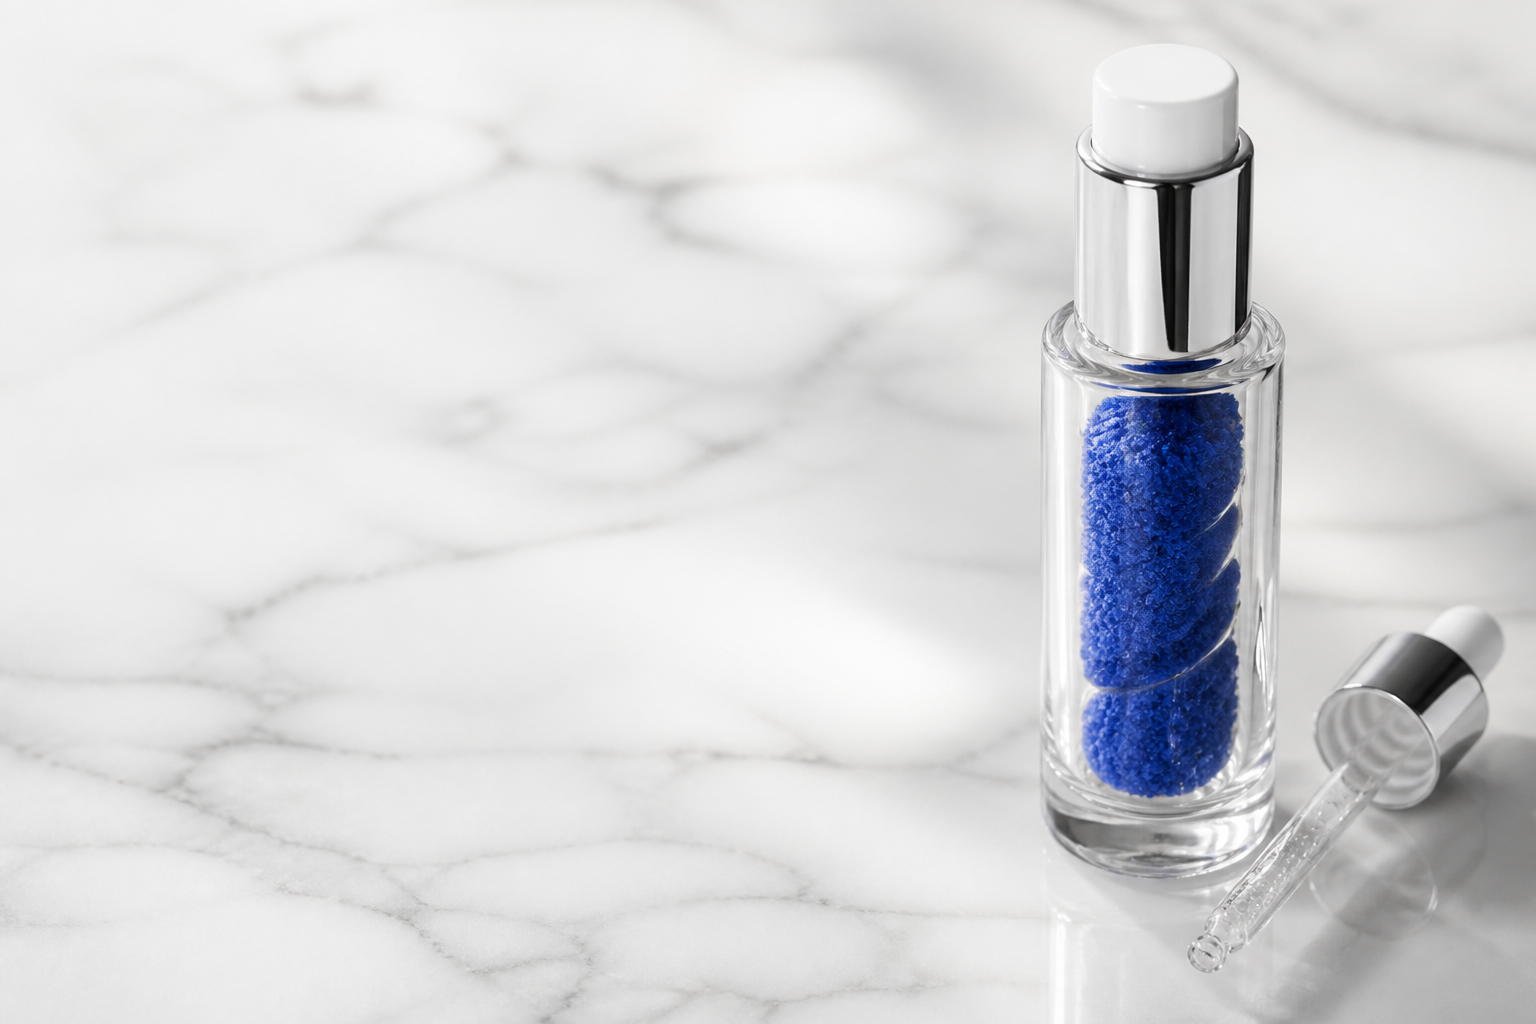
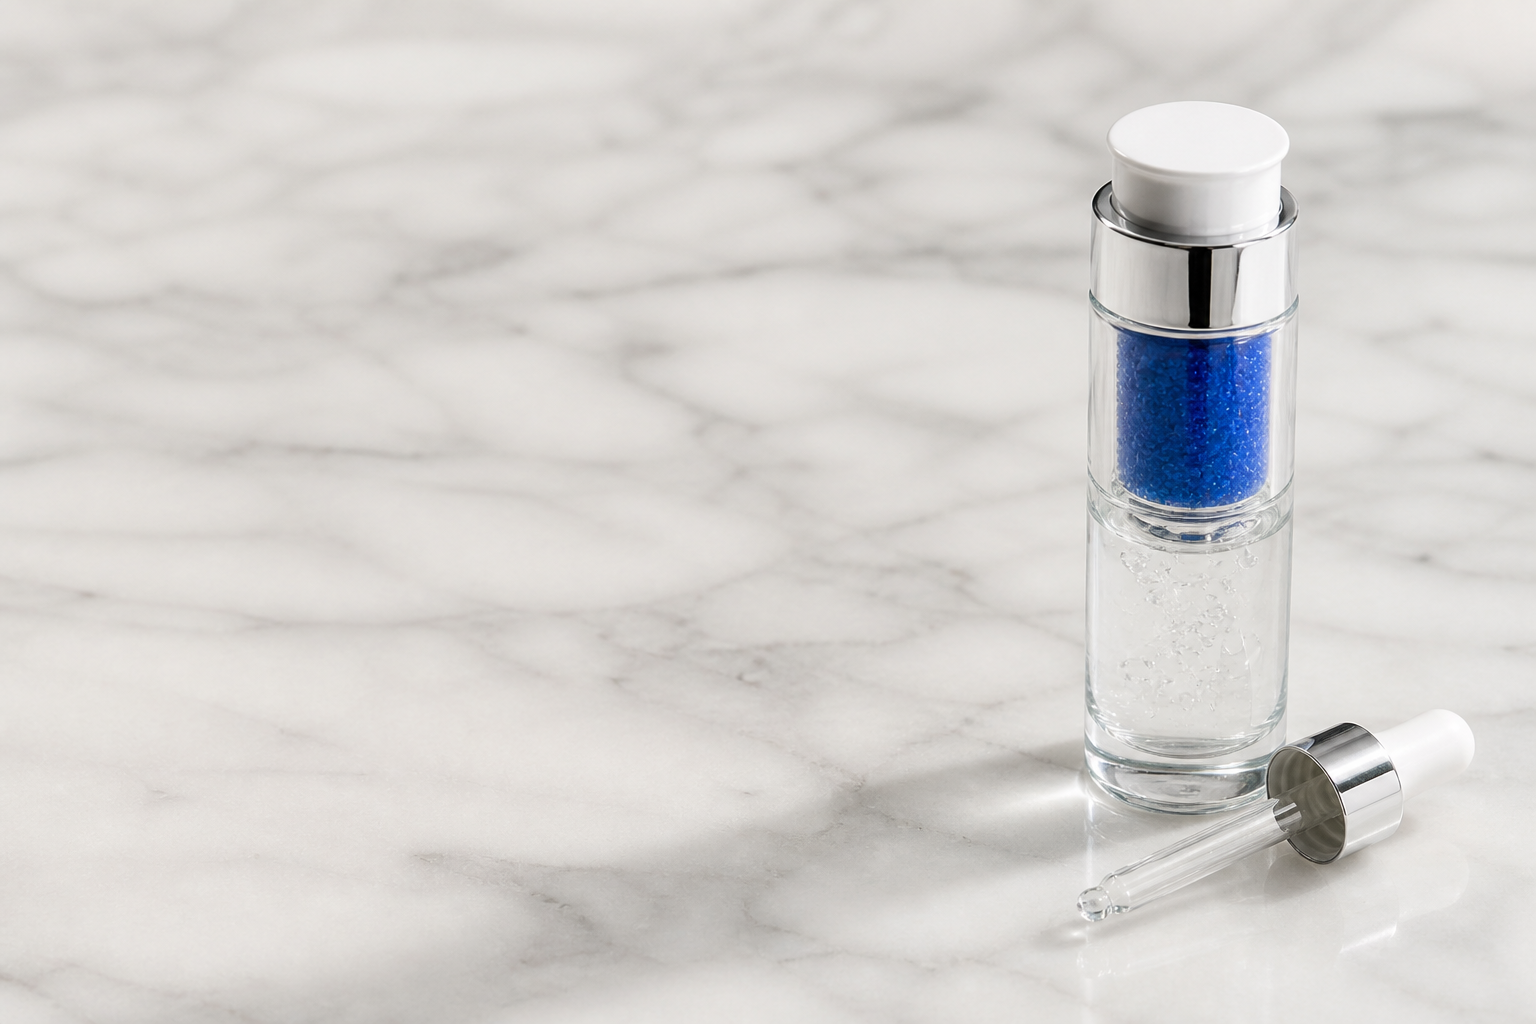
Set three vehicle photos: cobalt serum, open cream, eye
Use deeper cobalt buffet serum as the main shot, open tinted cream as
second, and a dedicated eye serum as third across gallery and lineup.

diff --git a/src/data/skincare.js b/src/data/skincare.js
@@ -69,7 +69,7 @@ export const PEPTIDES = [
     job: "Staple copper for a firmer, brighter look",
     amount: "1 g dry powder",
     price: 48,
-    image: "/skincare/ghk-twist-cap.png",
+    image: "/skincare/buffet-serum.png",
     packaging: "twist-cap",
     blurb:
       "The staple. Flagship copper peptide ships dry in a twist-cap so it doesn’t fade on the shelf.",
@@ -126,7 +126,7 @@ export const SERUM_BASES = [
     form: "serum",
     volume: "30 mL",
     price: 28,
-    image: "/skincare/mix-ampoules.png",
+    image: "/skincare/buffet-serum.png",
     blurb:
       "Ordinary Buffet type multi-peptide / HA / amino-acid serum. Best all-rounder face vehicle.",
     bestFor: "Face serum, daily, 1 to 4 peptides",
@@ -138,7 +138,7 @@ export const SERUM_BASES = [
     form: "cream",
     volume: "50 mL",
     price: 32,
-    image: "/skincare/cream-1.jpg",
+    image: "/skincare/peptide-cream.png",
     blurb:
       "Silken moisture cream vehicle. Mix dry peptides into a leave-on cream instead of a dropper serum.",
     bestFor: "Face cream, richer feel, day or night",
@@ -150,7 +150,7 @@ export const SERUM_BASES = [
     form: "serum",
     volume: "15 mL",
     price: 24,
-    image: "/skincare/serum-1.jpg",
+    image: "/skincare/eye-serum.png",
     blurb:
       "Cooling periocular serum. Pair with SNAP-8 or Syn-Ake for crow’s feet, or add Eyeseryl as a custom.",
     bestFor: "Under-eye, crow’s feet, expression",
@@ -317,11 +317,13 @@ export function buildSerumProduct({
     form: base.form || "serum",
     price,
     size: `${base.volume}, ${uniquePep.length} peptide${uniquePep.length > 1 ? "s" : ""}`,
-    image: hasGhk && !isCream ? "/skincare/ghk-twist-cap.png" : base.image,
+    image: hasGhk && !isCream ? "/skincare/buffet-serum.png" : base.image,
     gallery:
       hasGhk && !isCream
-        ? ["/skincare/ghk-twist-cap.png", "/skincare/ghk-twist-howto.png"]
-        : [base.image],
+        ? ["/skincare/buffet-serum.png", "/skincare/peptide-cream.png", "/skincare/eye-serum.png"]
+        : isCream
+          ? ["/skincare/peptide-cream.png", "/skincare/buffet-serum.png", "/skincare/eye-serum.png"]
+          : [base.image, "/skincare/buffet-serum.png", "/skincare/peptide-cream.png"],
     blurb: `Your mix: ${names.join(" + ")} in ${base.name}. Dry peptides stay sealed until you activate into the ${vehicleWord}.`,
     focus: uniquePep.map((p) => p.need).join(", "),
     texture,

diff --git a/src/index.css b/src/index.css
@@ -2509,7 +2509,7 @@ body:has(.app-shell--skincare) {
   display: grid;
   grid-template-columns: 1.2fr 1fr;
   gap: 1.25rem;
-  margin: 0 0 1.75rem;
+  margin: 0 0 1.25rem;
   padding: 1rem 0;
   border-top: 1px solid var(--line);
   border-bottom: 1px solid var(--line);
@@ -2541,6 +2541,57 @@ body:has(.app-shell--skincare) {
 .sk-lineup li span {
   color: var(--muted);
   text-align: right;
+}
+
+.sk-vehicle-gallery {
+  display: grid;
+  grid-template-columns: 1.35fr 1fr 1fr;
+  gap: 0.75rem;
+  margin: 0 0 1.75rem;
+}
+
+.sk-vehicle-gallery figure {
+  margin: 0;
+  border: 1px solid rgba(0, 47, 117, 0.08);
+  background: #f3f6fa;
+  overflow: hidden;
+}
+
+.sk-vehicle-gallery img {
+  width: 100%;
+  aspect-ratio: 3 / 4;
+  object-fit: cover;
+  display: block;
+}
+
+.sk-vehicle-gallery figcaption {
+  display: grid;
+  gap: 0.15rem;
+  padding: 0.7rem 0.8rem 0.85rem;
+  background: #fff;
+}
+
+.sk-vehicle-gallery figcaption strong {
+  font-family: var(--font-brand);
+  font-size: 1.05rem;
+  font-weight: 600;
+}
+
+.sk-vehicle-gallery figcaption span {
+  font-size: 0.78rem;
+  letter-spacing: 0.08em;
+  text-transform: uppercase;
+  color: var(--muted);
+}
+
+.sk-vehicle-gallery .is-main {
+  border-color: rgba(0, 71, 171, 0.28);
+}
+
+@media (max-width: 800px) {
+  .sk-vehicle-gallery {
+    grid-template-columns: 1fr;
+  }
 }
 
 .sk-builder {

diff --git a/src/components/SkincareHome.jsx b/src/components/SkincareHome.jsx
@@ -188,6 +188,18 @@ export default function SkincareHome({
             </div>
           </div>
 
+          <div className="sk-vehicle-gallery">
+            {SERUM_BASES.map((b, i) => (
+              <figure key={b.id} className={i === 0 ? "is-main" : undefined}>
+                <img src={b.image} alt={b.name} loading="lazy" />
+                <figcaption>
+                  <strong>{b.name}</strong>
+                  <span>{b.form === "cream" ? "Cream base" : "Serum base"}</span>
+                </figcaption>
+              </figure>
+            ))}
+          </div>
+
           <article className="flagship-mix fade">
             <div className="flagship-mix-media-col">
               <button
@@ -201,13 +213,6 @@ export default function SkincareHome({
                   className="flagship-mix-img"
                 />
               </button>
-              {FLAGSHIP_SERUM.gallery?.[1] && (
-                <img
-                  src={FLAGSHIP_SERUM.gallery[1]}
-                  alt="Twist powder chamber on bottle; dropper rests beside until activated"
-                  className="flagship-mix-howto"
-                />
-              )}
             </div>
             <div className="flagship-mix-body">
               <p className="section-kicker">Flagship</p>

diff --git a/src/App.jsx b/src/App.jsx
@@ -904,7 +904,14 @@ export default function App() {
                     {skinProduct.gallery?.[1] && (
                       <img
                         src={skinProduct.gallery[1]}
-                        alt="Activation: twist cap releases dry peptide into serum"
+                        alt="Peptide cream base with top off"
+                        className="skin-product-img skin-product-img--howto"
+                      />
+                    )}
+                    {skinProduct.gallery?.[2] && (
+                      <img
+                        src={skinProduct.gallery[2]}
+                        alt="Eye serum vehicle"
                         className="skin-product-img skin-product-img--howto"
                       />
                     )}
